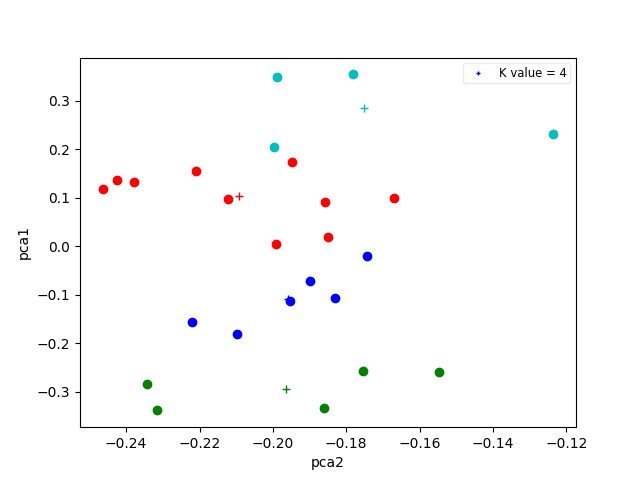
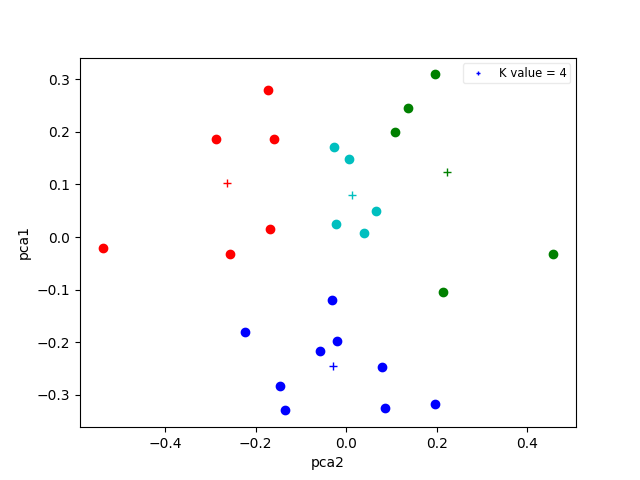
fixed indexing of frames

diff --git a/src/Kmeans.py b/src/Kmeans.py
@@ -76,7 +76,6 @@ def getData(str):
 						continue
 				data.append(row)
 			#	print(row)
-#       print(data)
 	return data
 
 def Dis(clu, S):
@@ -183,17 +182,33 @@ def PlotD(Sch, clus):
 	leg.get_frame().set_alpha(0.4)
 	plt.ylabel("pca1")
 	plt.xlabel("pca2")
-	outF = "cluster.png"
+	outF = sys.argv[2] + ".png"
 	plt.savefig(outF)
 	plt.close()
+def Transpose(data):
+
+        TOT = len(data[0])
+        RES = []
+        temp = []
+        for x in range(TOT):
+                temp.clear()
+                for index, line in enumerate(data):
+                        try:
+                                temp.append(float(line[x]))
+                        except:
+                                temp.append(line[x])
+                RES.append(temp.copy())
+        return RES
 def CLUSTER(d): #pixel data comes in in 2d vector, only way to do svd
 
 	#perform svd, need to decide on some issues
 	U, SIG, VT= np.linalg.svd(d, full_matrices=True)
 
-	P1 = VT[0].copy()
-	P2 = VT[1].copy()
-
+#	VT = Transpose(VT)
+	P1 = U[0].copy()
+	P2 = U[1].copy()
+#	print("U  - %d by %d" %(len(U[0]), len(U)) )
+#	print("VT - %d by %d" %(len(VT[0]), len(VT)) )
 	data = []
 	for index, P in enumerate(P1):
 		A = Frame(index, P1[index], P2[index])
